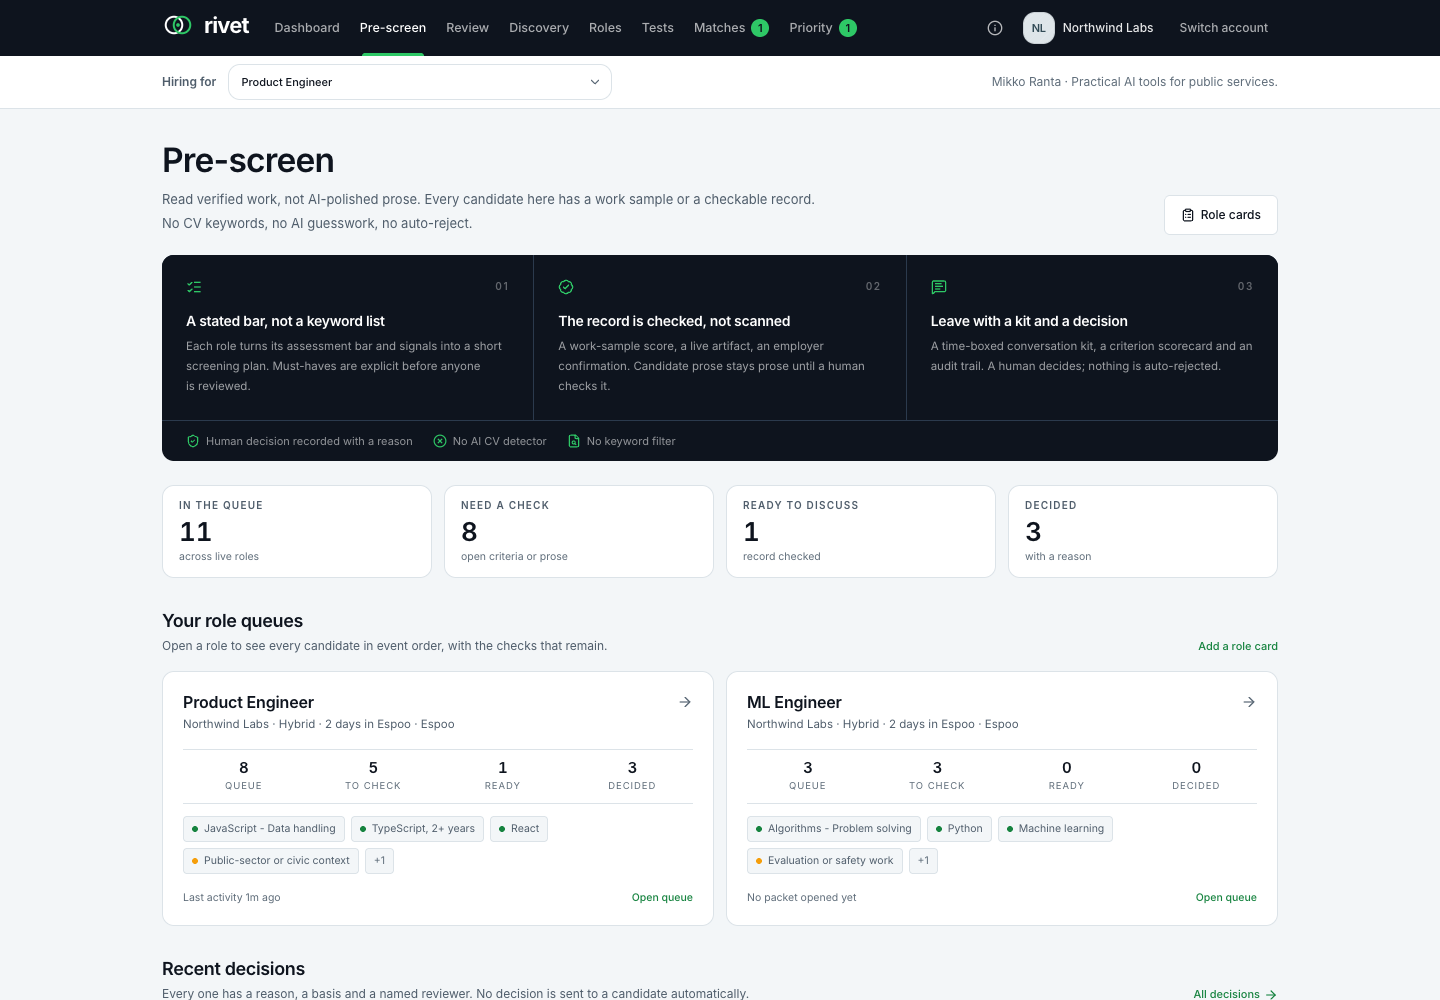
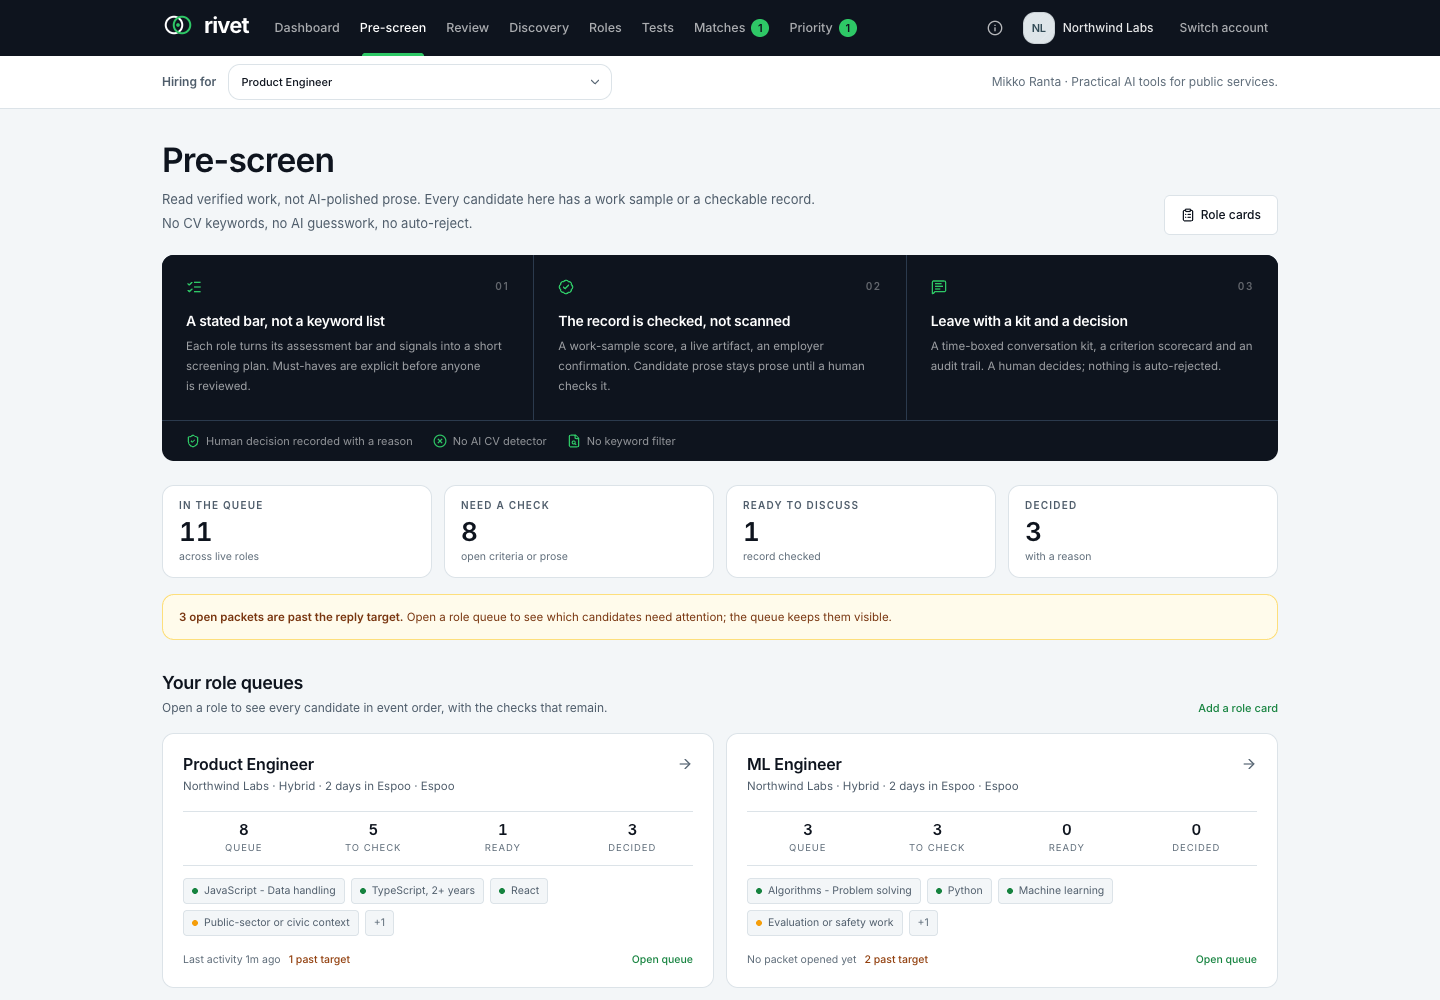
fix: harden CSV export and surface overdue totals on the desk

diff --git a/recruitment-app/src/app/(app)/prescreen/page.tsx b/recruitment-app/src/app/(app)/prescreen/page.tsx
@@ -43,9 +43,10 @@ export default async function PrescreenDeskPage() {
       candidates: total.candidates + summary.counts.total,
       checking: total.checking + summary.counts.needsChecking,
       ready: total.ready + summary.counts.readyToDiscuss,
+      overdue: total.overdue + summary.counts.overdue,
       decided: total.decided + summary.counts.advanced + summary.counts.held + summary.counts.declined,
     }),
-    { candidates: 0, checking: 0, ready: 0, decided: 0 },
+    { candidates: 0, checking: 0, ready: 0, overdue: 0, decided: 0 },
   );
 
   return (
@@ -125,6 +126,13 @@ export default async function PrescreenDeskPage() {
           </div>
         ))}
       </div>
+
+      {totals.overdue > 0 ? (
+        <div className="mt-4 rounded-xl border border-amber-300/70 bg-amber-50 px-4 py-3 text-[11.5px] leading-5 text-amber-900">
+          <span className="font-semibold">{totals.overdue} open packet{totals.overdue === 1 ? " is" : "s are"} past the reply target.</span>{" "}
+          Open a role queue to see which candidates need attention; the queue keeps them visible.
+        </div>
+      ) : null}
 
       <section className="mt-8" aria-labelledby="roles-heading">
         <div className="flex flex-wrap items-end justify-between gap-2">
@@ -210,7 +218,10 @@ export default async function PrescreenDeskPage() {
                 </div>
 
                 <div className="mt-auto flex flex-wrap items-center justify-between gap-2 pt-4 text-[10.5px] text-ink-faint">
-                  <span>{summary.lastActivityAt ? "Last activity " + formatRelativeTime(summary.lastActivityAt) : "No packet opened yet"}</span>
+                  <span>
+                    {summary.lastActivityAt ? "Last activity " + formatRelativeTime(summary.lastActivityAt) : "No packet opened yet"}
+                    {summary.counts.overdue > 0 ? <span className="ml-2 font-medium text-amber-800">{summary.counts.overdue} past target</span> : null}
+                  </span>
                   <span className="font-medium text-accent">Open queue</span>
                 </div>
               </Link>

diff --git a/recruitment-app/src/app/api/screening/decisions/export/route.ts b/recruitment-app/src/app/api/screening/decisions/export/route.ts
@@ -2,11 +2,7 @@ import { NextResponse } from "next/server";
 import { getRepository } from "@/lib/repo";
 import { getSession } from "@/lib/session";
 import { jsonError } from "@/lib/api";
-
-function cell(value: string | number | null | undefined): string {
-  const text = value === null || value === undefined ? "" : String(value);
-  return '"' + text.replace(/"/g, '""') + '"';
-}
+import { csvCell, csvRow } from "@/lib/csv";
 
 /** CSV export of the hiring team's recorded decisions. Employer-only. */
 export async function GET(request: Request) {
@@ -34,7 +30,7 @@ export async function GET(request: Request) {
     const hours = decision.decidedAt
       ? (new Date(decision.decidedAt).getTime() - new Date(decision.createdAt).getTime()) / (60 * 60 * 1000)
       : null;
-    return [
+    return csvRow([
       "true",
       decision.candidateName,
       decision.roleTitle,
@@ -47,11 +43,9 @@ export async function GET(request: Request) {
       hours === null || !Number.isFinite(hours) ? "" : (Math.round(hours * 10) / 10).toString(),
       decision.outcomeSentAt,
       origin + "/prescreen/" + decision.roleId + "/" + decision.candidateId,
-    ]
-      .map(cell)
-      .join(",");
+    ]);
   });
-  const csv = [headers.map(cell).join(","), ...rows].join("\r\n") + "\r\n";
+  const csv = [csvRow(headers), ...rows].join("\r\n") + "\r\n";
   const date = new Date().toISOString().slice(0, 10);
   return new NextResponse(csv, {
     status: 200,

diff --git a/recruitment-app/src/lib/csv.test.ts b/recruitment-app/src/lib/csv.test.ts
@@ -1,0 +1,31 @@
+import { describe, expect, it } from "vitest";
+import { csvCell, csvRow } from "./csv";
+
+describe("csvCell", () => {
+  it("quotes values and doubles internal quotes", () => {
+    expect(csvCell("plain")).toBe('"plain"');
+    expect(csvCell('he said "no"')).toBe('"he said ""no"""');
+    expect(csvCell("line\nbreak")).toBe('"line\nbreak"');
+  });
+
+  it("handles null and numbers", () => {
+    expect(csvCell(null)).toBe('""');
+    expect(csvCell(undefined)).toBe('""');
+    expect(csvCell(2.5)).toBe('"2.5"');
+  });
+
+  it("prevents spreadsheet formula injection in text", () => {
+    expect(csvCell("=HYPERLINK(\"https://example.com\")")).toBe('"\'=HYPERLINK(""https://example.com"")"');
+    expect(csvCell("+SUM(A1:A2)")).toBe('"\'+SUM(A1:A2)"');
+    expect(csvCell("-2")).toBe('"\'-2"');
+    expect(csvCell("@import")).toBe('"\'@import"');
+  });
+
+  it("does not prefix a numeric negative value", () => {
+    expect(csvCell(-2)).toBe('"-2"');
+  });
+
+  it("joins a row with commas", () => {
+    expect(csvRow(["a", 1, null])).toBe('"a","1",""');
+  });
+});

diff --git a/recruitment-app/src/lib/repo/prisma-repository.ts b/recruitment-app/src/lib/repo/prisma-repository.ts
@@ -3244,6 +3244,12 @@ export class PrismaRecruitmentRepository implements RecruitmentRepository {
           declined: items.filter((item) => item.run?.status === "DECLINE").length,
           needsChecking: items.filter((item) => (item.run?.status ?? "OPEN") === "OPEN" && item.openItems > 0).length,
           readyToDiscuss: items.filter((item) => (item.run?.status ?? "OPEN") === "OPEN" && item.summary.state === "ENOUGH_TO_DISCUSS").length,
+          overdue: items.filter((item) => {
+            if ((item.run?.status ?? "OPEN") !== "OPEN") return false;
+            const since = item.run?.createdAt ?? item.evidence?.lastSubmittedAt;
+            if (!since) return false;
+            return Date.now() - new Date(since).getTime() > role.reviewDueHours * 60 * 60 * 1000;
+          }).length,
         };
         const activity = items
           .map((item) => item.run?.updatedAt ?? null)

diff --git a/recruitment-app/src/components/screening/assign-reviewer-button.tsx b/recruitment-app/src/components/screening/assign-reviewer-button.tsx
@@ -55,7 +55,7 @@ export function AssignReviewerButton({
         type="button"
         onClick={assign}
         disabled={busy}
-        className="inline-flex h-8 items-center gap-1 rounded-md border border-line bg-surface px-2 text-[10.5px] font-medium text-ink-muted transition hover:border-line-strong hover:text-ink disabled:opacity-60"
+        className="inline-flex h-10 items-center gap-1 rounded-md border border-line bg-surface px-2 text-[10.5px] font-medium text-ink-muted transition hover:border-line-strong hover:text-ink disabled:opacity-60 sm:h-8"
       >
         {busy ? <Loader2 className="h-3 w-3 animate-spin" aria-hidden /> : <UserRoundPlus className="h-3 w-3" aria-hidden />}
         Assign to me

diff --git a/recruitment-app/src/lib/csv.ts b/recruitment-app/src/lib/csv.ts
@@ -1,0 +1,16 @@
+/**
+ * CSV helpers for the audit export. Values are quoted, internal quotes are
+ * doubled, and text that starts with a spreadsheet formula character is
+ * prefixed with an apostrophe so a synthetic name or reason cannot become a
+ * formula in Excel or Sheets.
+ */
+export function csvCell(value: unknown): string {
+  let text = value === null || value === undefined ? "" : String(value);
+  const isNumber = typeof value === "number";
+  if (!isNumber && /^[=+\-@\t\r]/.test(text)) text = "'" + text;
+  return '"' + text.replace(/"/g, '""') + '"';
+}
+
+export function csvRow(values: unknown[]): string {
+  return values.map(csvCell).join(",");
+}

diff --git a/recruitment-app/src/app/(app)/prescreen/decisions/page.tsx b/recruitment-app/src/app/(app)/prescreen/decisions/page.tsx
@@ -159,6 +159,7 @@ export default async function DecisionLogPage({
                       <Clock3 className="h-3 w-3" aria-hidden /> Closed in {hours === null ? "—" : formatDuration(hours)}
                     </span>
                     <span>{decision.decidedBy ?? "Reviewer"}</span>
+                    <span>{decision.assignedReviewerName ? "Assigned to " + decision.assignedReviewerName : "Unassigned"}</span>
                     <span>{decision.decidedAt ? formatRelativeTime(decision.decidedAt) : "time unknown"}</span>
                   </div>
                 </div>

diff --git a/recruitment-app/src/lib/repo/types.ts b/recruitment-app/src/lib/repo/types.ts
@@ -608,6 +608,7 @@ export interface ScreeningRoleSummary {
     declined: number;
     needsChecking: number;
     readyToDiscuss: number;
+    overdue: number;
   };
   evidenceState: EvidenceState | null;
   lastActivityAt: string | null;

diff --git a/recruitment-app/HANDOFF.md b/recruitment-app/HANDOFF.md
@@ -10,7 +10,7 @@ All data is synthetic. No real people, employers, assessments, evidence, message
 - Branch: `main`
 - Baseline: second-pass commit `c0ed587`
 - Current commit: `420d490` (pre-screen pass; not yet pushed or deployed)
-- Tests: **181 passed** across 23 files
+- Tests: **186 passed** across 24 files
 - Typecheck: clean
 - Lint: clean
 - Production build: passed
@@ -35,7 +35,7 @@ All data is synthetic. No real people, employers, assessments, evidence, message
 - **Plan drift and reset.** If the plan's assessment or signal sources no longer match the role card, the queue warns and the plan editor can reset from the role card. The reset increments the plan version.
 - **Optional candidate outcome.** A decline can send one short, honest outcome only when the reviewer explicitly ticks the box. The run records `outcomeSentAt` and an `OUTCOME_SENT` audit event; the existing `Outcome` row drives the candidate update. Nothing is automatic.
 - **Candidate evidence record.** `/profile/evidence` gives the candidate the same work samples, claims, artifacts and context/claim distinction a hiring team sees, without internal check notes or a CV score. It is linked from the dashboard and profile.
-- **Decision log.** `/prescreen/decisions` lists every recorded decision with its reason, basis, author, time-to-decision, outcome status and export link. It is filterable by outcome, shows a median time-to-decision as operational context, and exports the full log as CSV.
+- **Decision log.** `/prescreen/decisions` lists every recorded decision with its reason, basis, author, assignment, time-to-decision, outcome status and export link. It is filterable by outcome, shows a median time-to-decision as operational context, and exports the full log as CSV with formula-injection protection.
 - **Second reviewer account and assignment.** A second Northwind account (`tuuli@northwind.demo` / `demo-panel`) shares the same queues. A packet can be assigned with an audit event; the queue has a Mine filter. Notes, claim checks, decisions and reopens are attributed to the signed-in reviewer; the audit trail shows both. There are no permission levels.
 - **Conversation kit.** A deterministic, time-boxed kit built from open must-haves, claims saved for the conversation and work-sample questions with gaps, with a listen-for and follow-up. It is copyable.
 - **New persistence.** `ScreeningRun` (stage, status, claim checks, criterion checks, notes, decision) and `ScreeningEvent` (append-only audit). Seeded with 7 realistic runs at different stages.
@@ -48,7 +48,7 @@ All data is synthetic. No real people, employers, assessments, evidence, message
 ### Verification (15 November 2026, local)
 
 - `npx tsc --noEmit` and `npx next lint`: clean.
-- `npx vitest run`: **181 passed** across 23 files. 33 new tests cover plan derivation, drift detection, criterion evaluation, claim contexts, the shared context classifier, the interview kit (including work-sample gaps and saved claims), the packet summary and decision validation.
+- `npx vitest run`: **186 passed** across 24 files. The suite covers plan derivation, drift detection, criterion evaluation, claim contexts, the shared context classifier, the interview kit (including work-sample gaps and saved claims), the packet summary, decision validation and CSV formula safety.
 - `npm run build`: passed.
 - `npm run smoke` against the production build: passed. It now covers the pre-screen desk, decision log and CSV export, role queue, plan editor and version increment, plan reset, frozen decision snapshot, packet, question-level work sample, claim check, note, human decision, export authorization, a decline that explicitly sends a candidate outcome, and a second reviewer's shared-record attribution, alongside all earlier candidate/employer flows.
 - `npm run screenshots`: passed; the suite now includes the pre-screen desk, queue, plan editor, packet, decision, decline outcome and mobile views.

diff --git a/recruitment-app/README.md b/recruitment-app/README.md
@@ -67,7 +67,7 @@ Use the sample buttons or sign in with those credentials. You can also create a 
 | **Portable audit record** | `GET /api/screening/[roleId]/[candidateId]/export` returns the packet, plan snapshot, claim states, decision, notes and audit trail as a JSON download. Employer-only. |
 | **Question-level work sample** | The packet shows each problem's passed/total checks, not the hidden tests. Seeded sittings get synthetic per-problem marks; live sittings store real marks. |
 | **Visible reply target** | The role's review owner and 48h target are shown. Open packets past the target stay in the queue with a warning, not a hidden penalty. |
-| **Decision log** | Every recorded decision is filterable by outcome and shows its reason, basis, author, time-to-decision, candidate outcome status and export link. The full log also exports as CSV for an internal audit. |
+| **Decision log** | Every recorded decision is filterable by outcome and shows its reason, basis, author, assignment, time-to-decision, candidate outcome status and export link. The full log also exports as CSV for an internal audit; text cells are protected against spreadsheet formula injection. |
 | **Shared reviewer record** | Two Northwind accounts can review the same queue. Each packet can be assigned to one reviewer; the queue has a Mine filter. Notes, claim checks, decisions and reopens record the actual reviewer, and either reviewer can still act. No permission levels are claimed. |
 | **A conversation kit** | `buildInterviewKit` is deterministic. It asks about open criteria, claims saved for the conversation and work-sample questions with gaps, includes a listen-for and follow-up, and always leaves time for the candidate's questions. |
 | **Exact work samples** | Assessments are versioned, timed or untimed and optionally proctored or in browser lockdown. Every question has equal weight. Hidden answer keys never reach the browser. |
@@ -111,7 +111,7 @@ npm run seed         # leave a clean demo
 
 Current local results:
 
-- Unit tests: **181 passed** across 23 files, including 33 pre-screen and evidence-classification tests.
+- Unit tests: **186 passed** across 24 files, including 33 pre-screen and evidence-classification tests and 5 CSV export tests.
 - Typecheck and ESLint: clean.
 - Production build: passed.
 - Browser smoke: passed. It now covers the pre-screen desk, decision log, role queue, plan editor and versioning, plan reset, frozen decision snapshot, packet, question-level work sample, claim check, note, human decision, JSON export, an explicit decline outcome and a second reviewer's shared-record attribution, plus the existing candidate/employer flows.

diff --git a/recruitment-app/DECISIONS.md b/recruitment-app/DECISIONS.md
@@ -92,7 +92,7 @@ This file records the judgment calls made while turning the prototype into an in
 
 ## Verification
 
-- `npm test`: 181 tests across 23 files, including 33 pre-screen and evidence-classification tests.
+- `npm test`: 186 tests across 24 files, including 33 pre-screen and evidence-classification tests and 5 CSV export tests.
 - `npm run typecheck`: clean.
 - `npm run lint`: clean.
 - `npm run build`: passed.
